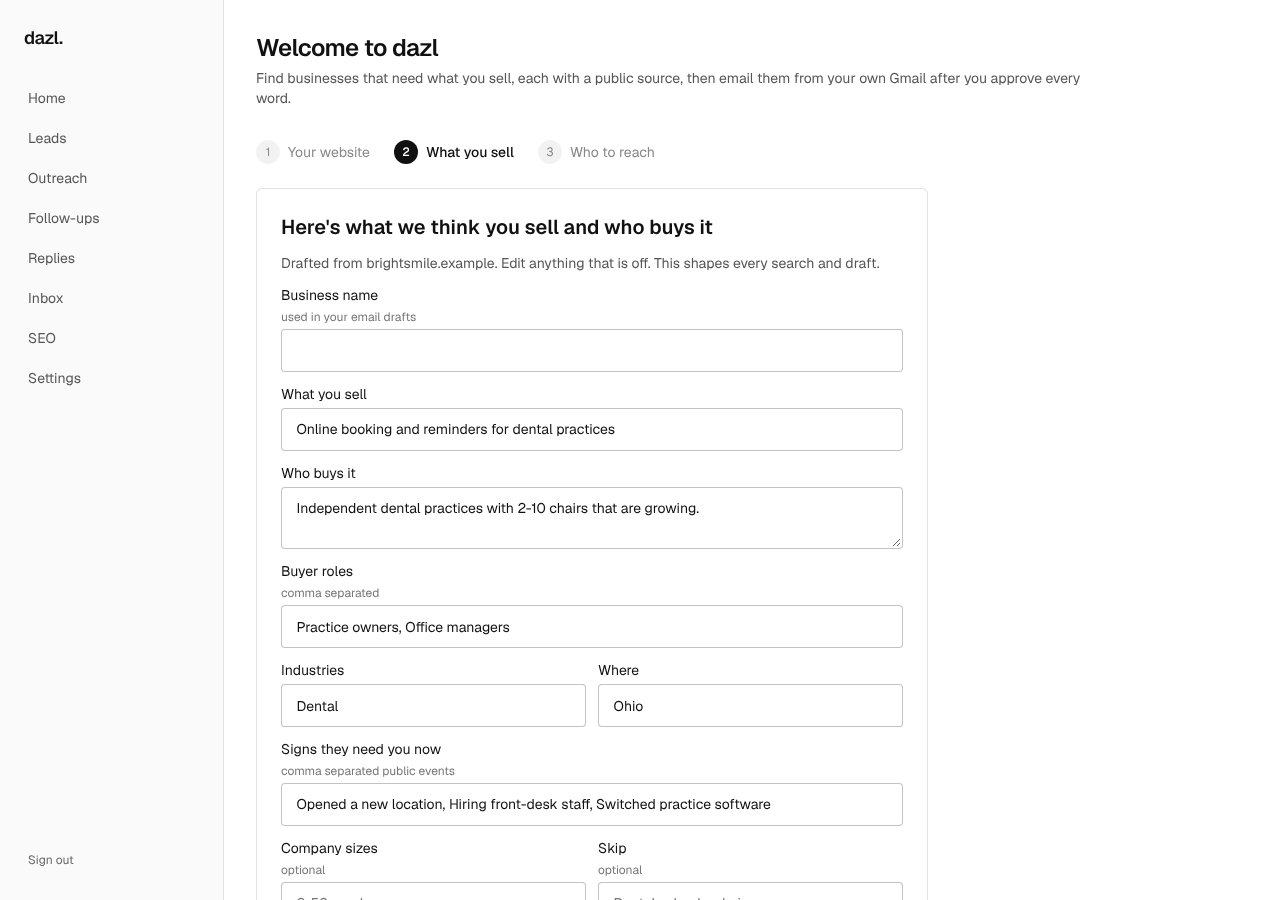
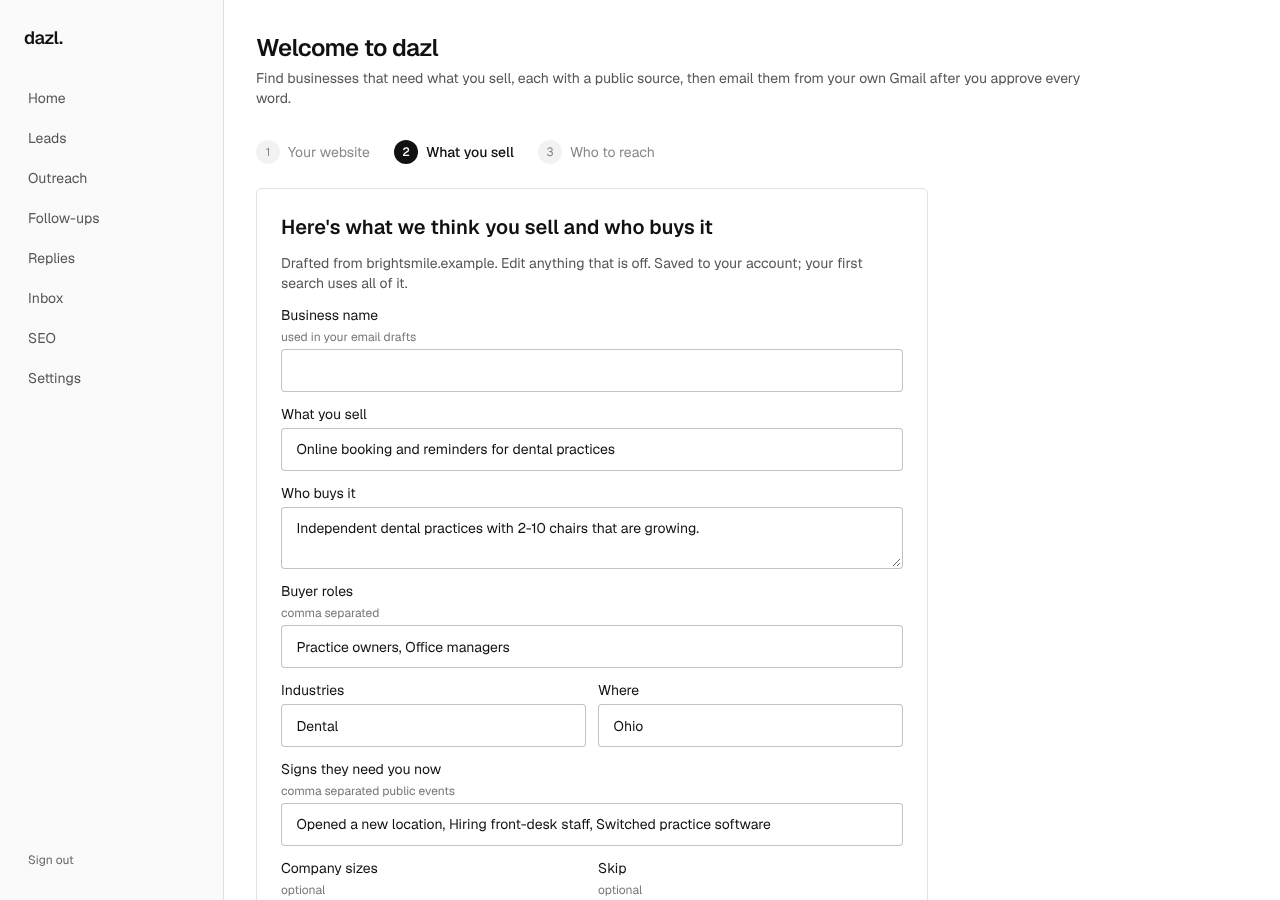
Onboarding: save the reviewed buyer profile through the real profile route
Instinct's review of cf7b5a3: step 2 saved only sells/website/business_name, so
buyer, roles, industries, place, signals, sizes and skip were lost on reload.

- users.buyer_profile (TEXT, JSON; additive ALTER like sells/website).
- /api/settings/profile: POST accepts `buyer`. Omitted keeps it, null clears it,
  anything else must pass normalizeIcp (the scan-profile validation): invalid
  -> 400 and nothing changes; unknown fields dropped, lists capped. GET and POST
  return it re-normalized. Tenant-scoped by the session user, as before.
- First run saves the step-2 profile with "Looks right, continue" and restores
  it on load. Copy now says what is true: saved to your account; the first
  search uses all of it (no "every search and draft" claim).
- suggestPlays: enough rounds for three distinct plays when signals repeat.

Tests: test/profile-route.test.ts runs the real GET/POST handlers on a real
temporary SQLite file (save -> fresh read -> row, tenant B sees nothing, keep/
clear/invalid, unknown fields dropped); fails 3/3 on cf7b5a3.
test/ui/onboarding.ui.mjs now sends /api/settings/profile to the real route and
checks that every field comes back after a full reload.

Claude-Session: https://claude.ai/code/session_01CafonXdzjwkFYiMRJWtsKo

diff --git a/web/app/app/first-run.tsx b/web/app/app/first-run.tsx
@@ -42,6 +42,11 @@ export default function FirstRun({ children }: { children: React.ReactNode }) {
   const [error, setError] = useState('')
   const [needKey, setNeedKey] = useState(false)
 
+  // Fills the step-2 buyer fields from a profile (the saved one on load, or a fresh website read).
+  const fillBuyer = (b: Partial<Brain> & { sizes?: string[]; exclude?: string[] }) => {
+    const j = (v?: string[]) => (v ?? []).join(', ')
+    setSummary(b.summary ?? ''); setWho(j(b.who)); setIndustries(j(b.industries)); setWhere(j(b.where)); setSignals(j(b.signals)); setSizes(j(b.sizes)); setExclude(j(b.exclude))
+  }
   const loadUsage = () => fetch('/api/usage').then(r => r.ok ? r.json() : null).then(j => { if (j) setUsage(j) }).catch(() => {})
   useEffect(() => {
     void Promise.all([
@@ -49,7 +54,10 @@ export default function FirstRun({ children }: { children: React.ReactNode }) {
       fetch('/api/settings/profile').then(r => r.ok ? r.json() : null).catch(() => null),
       loadUsage(),
     ]).then(([jobs, profile]) => {
-      if (profile) { setWebsite(String(profile.website ?? '')); setSells(String(profile.sells ?? '')); setBizName(String(profile.business_name ?? '')) }
+      if (profile) {
+        setWebsite(String(profile.website ?? '')); setSells(String(profile.sells ?? '')); setBizName(String(profile.business_name ?? ''))
+        if (profile.buyer) fillBuyer(profile.buyer)
+      }
       // Anything unreadable falls back to the normal Home rather than trapping a returning user in the wizard.
       setReady(jobs && Array.isArray(jobs.jobs) && jobs.jobs.length === 0 ? 'wizard' : 'home')
     })
@@ -79,9 +87,7 @@ export default function FirstRun({ children }: { children: React.ReactNode }) {
         return setError(knownErrorCopy(j.error) ?? SITE_ERR[j.error] ?? (r.status === 429 ? 'Too many website reads. Try again later, or fill in the profile yourself.' : 'Could not read that site. Fill in the profile yourself instead.'))
       }
       if (j.sells) setSells(String(j.sells))
-      const site = j.icp as Brain & { sizes?: string[]; exclude?: string[] }
-      setSummary(site.summary ?? ''); setWho((site.who ?? []).join(', ')); setIndustries((site.industries ?? []).join(', ')); setWhere((site.where ?? []).join(', ')); setSignals((site.signals ?? []).join(', '))
-      setSizes((site.sizes ?? []).join(', ')); setExclude((site.exclude ?? []).join(', '))
+      fillBuyer(j.icp)
       try { setReadFrom(new URL(j.source).hostname) } catch { setReadFrom('your website') }
       setWebsite(url); setStep('brain')
     } catch { setError('Could not reach the server. Check your connection and try again.') } finally { setBusy(false) }
@@ -90,7 +96,7 @@ export default function FirstRun({ children }: { children: React.ReactNode }) {
   async function saveBrain(e: React.FormEvent) {
     e.preventDefault(); setError(''); setBusy(true)
     try {
-      const r = await fetch('/api/settings/profile', { method: 'POST', headers: { 'content-type': 'application/json' }, body: JSON.stringify({ sells, website: normalizeWebsite(website), business_name: bizName }) })
+      const r = await fetch('/api/settings/profile', { method: 'POST', headers: { 'content-type': 'application/json' }, body: JSON.stringify({ sells, website: normalizeWebsite(website), business_name: bizName, buyer: profile }) })
       const j = await r.json().catch(() => ({}))
       if (!r.ok) return setError(j.error || 'Could not save')
       if (askIsSuggestion || !ask.trim()) { setAsk(plays[0] || ''); setAskIsSuggestion(true) }
@@ -130,7 +136,7 @@ export default function FirstRun({ children }: { children: React.ReactNode }) {
 
       {step === 'brain' && <form onSubmit={saveBrain} className="card p-6 flex flex-col gap-3 text-sm">
         <h2 className="text-xl font-semibold">Here&apos;s what we think you sell and who buys it</h2>
-        <p className="text-[#555]">{readFrom ? `Drafted from ${readFrom}. ` : ''}Edit anything that is off. This shapes every search and draft.</p>
+        <p className="text-[#555]">{readFrom ? `Drafted from ${readFrom}. ` : ''}Edit anything that is off. Saved to your account; your first search uses all of it.</p>
         <label className="flex flex-col gap-1">Business name <span className="text-xs text-[#777]">used in your email drafts</span><input className="field" maxLength={150} value={bizName} onChange={e => setBizName(e.target.value)} /></label>
         <label className="flex flex-col gap-1">What you sell<input className="field" required minLength={3} maxLength={150} value={sells} onChange={e => setSells(e.target.value)} placeholder="e.g. Scheduling software for dental practices" /></label>
         <label className="flex flex-col gap-1">Who buys it<textarea className="field" rows={2} maxLength={400} value={summary} onChange={e => setSummary(e.target.value)} placeholder="e.g. Independent dental practices with 2-10 chairs" /></label>

diff --git a/web/app/api/settings/profile/route.ts b/web/app/api/settings/profile/route.ts
@@ -1,12 +1,20 @@
 import { NextRequest, NextResponse } from 'next/server'
 import { requireUser } from '@/lib/scan/service'
-import { getAuthDb, getBusinessName, getSellerProfile, setBusinessName, setSellerProfile } from '@/lib/auth-db'
+import { getAuthDb, getBusinessName, getBuyerProfile, getSellerProfile, setBusinessName, setBuyerProfile, setSellerProfile } from '@/lib/auth-db'
+import { normalizeIcp } from '@/lib/scan/icp'
 import { rateLimit } from '@/lib/rate-limit'
+
+// The stored buyer profile, re-normalized on the way out (null when none is saved or it no longer validates).
+function buyer(userId: string) {
+  const raw = getBuyerProfile(getAuthDb(), userId)
+  if (!raw) return null
+  try { return normalizeIcp(JSON.parse(raw)) } catch { return null }
+}
 
 export async function GET() {
   const user = await requireUser()
   if (!user) return NextResponse.json({ error: 'Not signed in' }, { status: 401 })
-  return NextResponse.json({ ...getSellerProfile(getAuthDb(), user.id), business_name: getBusinessName(getAuthDb(), user.id) })
+  return NextResponse.json({ ...getSellerProfile(getAuthDb(), user.id), business_name: getBusinessName(getAuthDb(), user.id), buyer: buyer(user.id) })
 }
 
 export async function POST(req: NextRequest) {
@@ -18,10 +26,22 @@ export async function POST(req: NextRequest) {
   // Fields the caller omits keep their stored value (a name-only save must not wipe sells/website).
   const sells = typeof body?.sells === 'string' ? body.sells.trim().slice(0, 150) : cur.sells
   const website = typeof body?.website === 'string' ? body.website.trim().slice(0, 200) : cur.website
+  // Optional buyer profile (who they sell to). Omitted keeps the stored one, null clears it, anything else must pass the
+  // same normalizeIcp validation a scan profile does - an invalid one is refused, never silently stored or dropped.
+  let buyerJson: string | null | undefined
+  if (body && typeof body === 'object' && 'buyer' in body) {
+    if (body.buyer === null) buyerJson = null
+    else {
+      const icp = normalizeIcp(body.buyer)
+      if (!icp) return NextResponse.json({ error: 'The buyer profile needs a description of who buys' }, { status: 400 })
+      buyerJson = JSON.stringify(icp)
+    }
+  }
   if (website && !/^https:\/\/[\w.-]+\.[a-z]{2,}([/?#]\S*)?$/i.test(website)) return NextResponse.json({ error: 'Website must be a full https URL, like https://acme.com' }, { status: 400 })
   setSellerProfile(getAuthDb(), user.id, sells, website)
+  if (buyerJson !== undefined) setBuyerProfile(getAuthDb(), user.id, buyerJson)
   // Optional: the name used in drafts. Only changed when the caller sends it; blank clears it (drafts then refuse).
   if (typeof body?.business_name === 'string') setBusinessName(getAuthDb(), user.id, body.business_name)
   // Return the canonical stored values so the page never shows text the server did not keep.
-  return NextResponse.json({ ok: true, ...getSellerProfile(getAuthDb(), user.id), business_name: getBusinessName(getAuthDb(), user.id) })
+  return NextResponse.json({ ok: true, ...getSellerProfile(getAuthDb(), user.id), business_name: getBusinessName(getAuthDb(), user.id), buyer: buyer(user.id) })
 }

diff --git a/web/lib/auth-db.ts b/web/lib/auth-db.ts
@@ -29,6 +29,7 @@ export function getAuthDb(): Database.Database {
   `)
     try { db.exec('ALTER TABLE users ADD COLUMN sells TEXT') } catch { /* exists */ }
   try { db.exec('ALTER TABLE users ADD COLUMN website TEXT') } catch { /* exists */ }
+  try { db.exec('ALTER TABLE users ADD COLUMN buyer_profile TEXT') } catch { /* exists */ }
   return db
 }
 
@@ -51,6 +52,17 @@ export function createSession(userId: string): string {
 export function getSellerProfile(db: Database.Database, userId: string): { sells: string; website: string } {
   const r = db.prepare('SELECT sells, website FROM users WHERE id = ?').get(userId) as { sells: string | null; website: string | null } | undefined
   return { sells: r?.sells ?? '', website: r?.website ?? '' }
+}
+
+// Who the seller sells to, as reviewed in onboarding: a normalized Icp stored as JSON (validated by the caller with
+// normalizeIcp). Read back through normalizeIcp too, so a stored row can never return fields the profile does not allow.
+export function getBuyerProfile(db: Database.Database, userId: string): string | null {
+  const r = db.prepare('SELECT buyer_profile FROM users WHERE id = ?').get(userId) as { buyer_profile: string | null } | undefined
+  return r?.buyer_profile ?? null
+}
+
+export function setBuyerProfile(db: Database.Database, userId: string, json: string | null): void {
+  db.prepare('UPDATE users SET buyer_profile = ? WHERE id = ?').run(json, userId)
 }
 
 export function getBusinessName(db: Database.Database, userId: string): string {

diff --git a/web/test/profile-route.test.ts b/web/test/profile-route.test.ts
@@ -1,0 +1,18 @@
+import { test } from 'node:test'
+import assert from 'node:assert/strict'
+import { spawnSync } from 'node:child_process'
+import { fileURLToPath } from 'node:url'
+
+// The real profile route handlers and a real SQLite file, in a child process so DB_PATH and the module loader are its own.
+test('profile route: buyer profile save, reload, tenant isolation and validation', () => {
+  const env = { ...process.env }
+  delete env.NODE_TEST_CONTEXT
+  const result = spawnSync(process.execPath, [
+    '--experimental-strip-types', '--import', './test/helpers/net-fence.ts',
+    '--loader', './test/helpers/tenant-route-loader.mjs',
+    '--test', './test/helpers/profile-route-runtime.mts',
+  ], { cwd: fileURLToPath(new URL('../', import.meta.url)), env, encoding: 'utf8', timeout: 60000 })
+  assert.equal(result.error, undefined)
+  assert.equal(result.status, 0, result.stdout + result.stderr)
+  assert.match(result.stdout, /# pass 3/)
+})

diff --git a/web/lib/onboarding.ts b/web/lib/onboarding.ts
@@ -16,7 +16,8 @@ export function suggestPlays(b: Brain): string[] {
   const place = where ? ` in ${where}` : ''
   const fallbacks = ['hiring for a role my product supports', 'recent funding or expansion', 'a new location or launch']
   const out: string[] = []
-  for (let i = 0; out.length < 3 && i < 6; i++) {
+  // Enough rounds to reach three distinct plays even when the profile repeats a signal or a buyer.
+  for (let i = 0; out.length < 3 && i < signals.length + fallbacks.length + 3; i++) {
     const sig = signals[i] ? lower1(signals[i]) : fallbacks[(i - signals.length + fallbacks.length) % fallbacks.length]
     const play = `${buyer(i)}${place} - ${sig}`.slice(0, 300)
     if (!out.includes(play)) out.push(play)

diff --git a/web/test/onboarding.test.ts b/web/test/onboarding.test.ts
@@ -30,3 +30,10 @@ test('website input becomes an https URL', () => {
   assert.equal(normalizeWebsite('http://acme.com/about'), 'https://acme.com/about')
   assert.equal(normalizeWebsite('  '), '')
 })
+
+test('repeated signals or a single buyer still give three distinct plays', () => {
+  const p = suggestPlays({ summary: 'Clinics', who: ['Clinic administrators'], industries: [], where: ['New York City'], signals: ['Hiring', 'hiring', 'Hiring'] })
+  assert.equal(p.length, 3)
+  assert.equal(new Set(p).size, 3)
+  assert.ok(p.every(s => s.startsWith('Clinic administrators in New York City - ')))
+})
